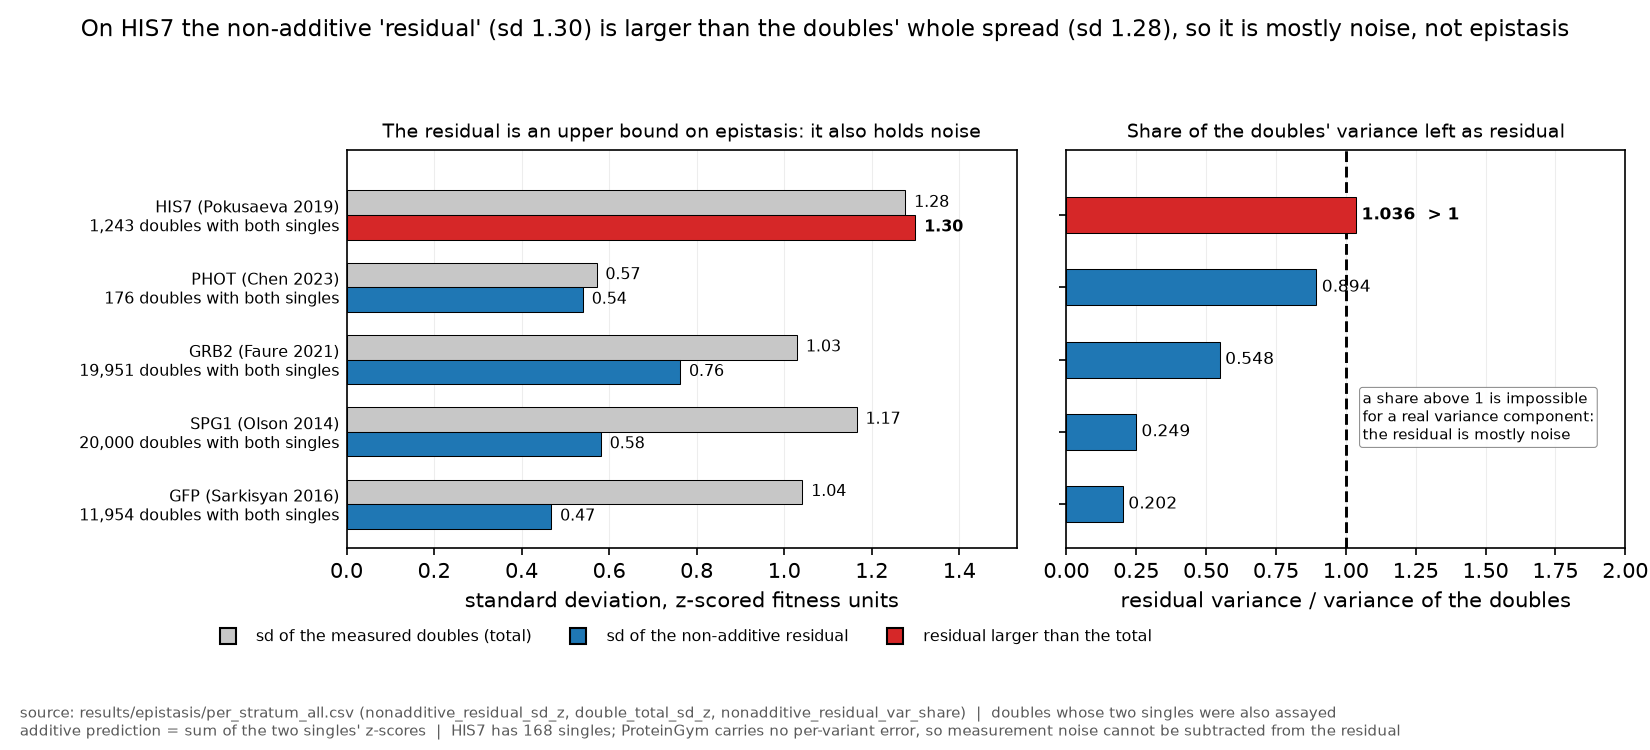
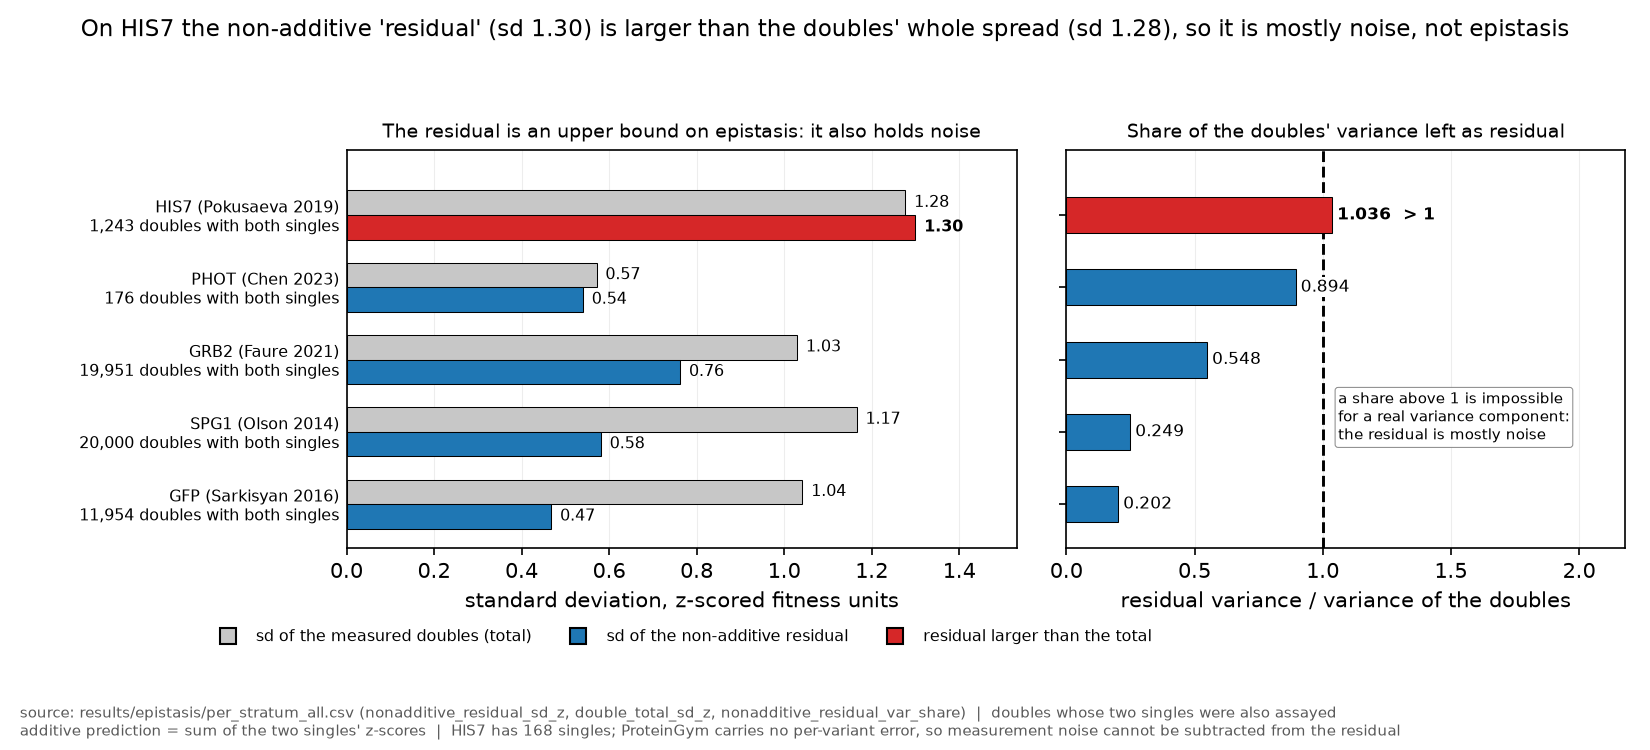
Clear the two layout defects the vision pass found on the findings figures
family_test_unit: the dashed p = 0.05 rule ran through both row annotations
("unit = checkpoint, 23 vs 19" and "unit = family, 6 vs 8"), and the right-most
x tick (10^0) was cut in half by the axes frame. The annotations are now
left-aligned with an opaque mask, the bold p label is right-aligned off its point
so the 0.05 rule cannot strike it, and the x limit runs to 1.9 instead of exactly
1 so the 10^0 tick is fully drawn.

his7_residual: the dashed 1.00 rule crossed the PHOT share label (0.894 sits close
enough that a +0.02 offset ran into it), and the 2.00 tick was clipped. The label
is masked and the limit runs to 2.18.

Verified: check_figures.py reports no layout change (image dimensions unchanged -
these were text and axis-range fixes, not figsize), and 276 tests pass.

diff --git a/scripts/make_figures.py b/scripts/make_figures.py
@@ -970,13 +970,23 @@ def fig_family_test_unit():
         y = 1 - i
         axp.scatter([p], [y], s=110, color=color, edgecolor="black", linewidth=0.8,
                     zorder=4, marker="o")
-        axp.text(p, y + 0.2, f"p = {p:.5f}" if p < 0.001 else f"p = {p:.4f}",
-                 ha="center", va="bottom", fontsize=9, fontweight="bold")
-        axp.text(0.5, y - 0.2, label, transform=axp.get_yaxis_transform(),
-                 ha="center", va="top", fontsize=7.5)
+        # Right-aligned off the point, not centred on it: the smaller p sits at
+        # 0.0213 on a log axis whose 0.05 rule is close by, so a centred label was
+        # struck through by that rule (a vision pass caught "p = 0.0213").
+        axp.text(p, y + 0.22, f"p = {p:.5f}" if p < 0.001 else f"p = {p:.4f}",
+                 ha="right", va="bottom", fontsize=9, fontweight="bold",
+                 bbox=dict(facecolor="white", edgecolor="none", pad=0.8), zorder=6)
+        # Left-aligned with an opaque mask. Centred at 0.5 axes fraction the
+        # text spanned the 0.05 line (which sits at ~0.68 of a log axis running
+        # 1e-4..1), so the dashed rule struck through "vs 19" and "6 vs 8".
+        axp.text(0.02, y - 0.2, label, transform=axp.get_yaxis_transform(),
+                 ha="left", va="top", fontsize=7.5,
+                 bbox=dict(facecolor="white", edgecolor="none", pad=0.8), zorder=5)
     axp.axvline(0.05, color="black", ls="--", lw=1.2, zorder=2)
     axp.set_xscale("log")
-    axp.set_xlim(1e-4, 1)
+    # Past 1, not to it: with the limit exactly at 1 the 10^0 tick label was cut in
+    # half by the axes frame.
+    axp.set_xlim(1e-4, 1.9)
     axp.set_ylim(-0.75, 1.75)
     axp.set_yticks([])
     axp.grid(axis="x", color="0.93", lw=0.5)
@@ -1051,10 +1061,14 @@ def fig_his7_residual():
         a2.barh(y, r["nonadditive_residual_var_share"], height=0.5,
                 color="C3" if flag else "C0", edgecolor="black", linewidth=0.5,
                 zorder=3)
+        # PHOT's share is 0.894, so a label starting 0.02 to its right ran into
+        # the dashed 1.00 rule. Opaque mask keeps the digits readable wherever the
+        # share happens to land.
         a2.text(r["nonadditive_residual_var_share"] + 0.02, y,
                 f"{r['nonadditive_residual_var_share']:.3f}"
                 + ("  > 1" if flag else ""), va="center", fontsize=8,
-                fontweight="bold" if flag else "normal")
+                fontweight="bold" if flag else "normal",
+                bbox=dict(facecolor="white", edgecolor="none", pad=0.8), zorder=5)
     a1.set_yticks(ys)
     a1.set_yticklabels([f"{_short_assay(i)}\n{int(r['n_doubles_with_singles']):,} doubles "
                         f"with both singles" for i, r in a.iterrows()], fontsize=7.5)
@@ -1065,7 +1079,8 @@ def fig_his7_residual():
     a2.text(1.06, 1.2, "a share above 1 is impossible\nfor a real variance component:\n"
             "the residual is mostly noise", fontsize=7.2, va="center", ha="left",
             bbox=dict(boxstyle="round,pad=0.2", fc="white", ec="grey", lw=0.5, alpha=0.9))
-    a2.set_xlim(0, 2.0)
+    # 2.18, not 2.0: the "2.00" tick sat on the frame edge and was clipped.
+    a2.set_xlim(0, 2.18)
     a1.set_xlim(0, float(a["double_total_sd_z"].max()) * 1.2)
     a2.set_ylim(-0.6, n - 0.1)
     for ax in (a1, a2):
